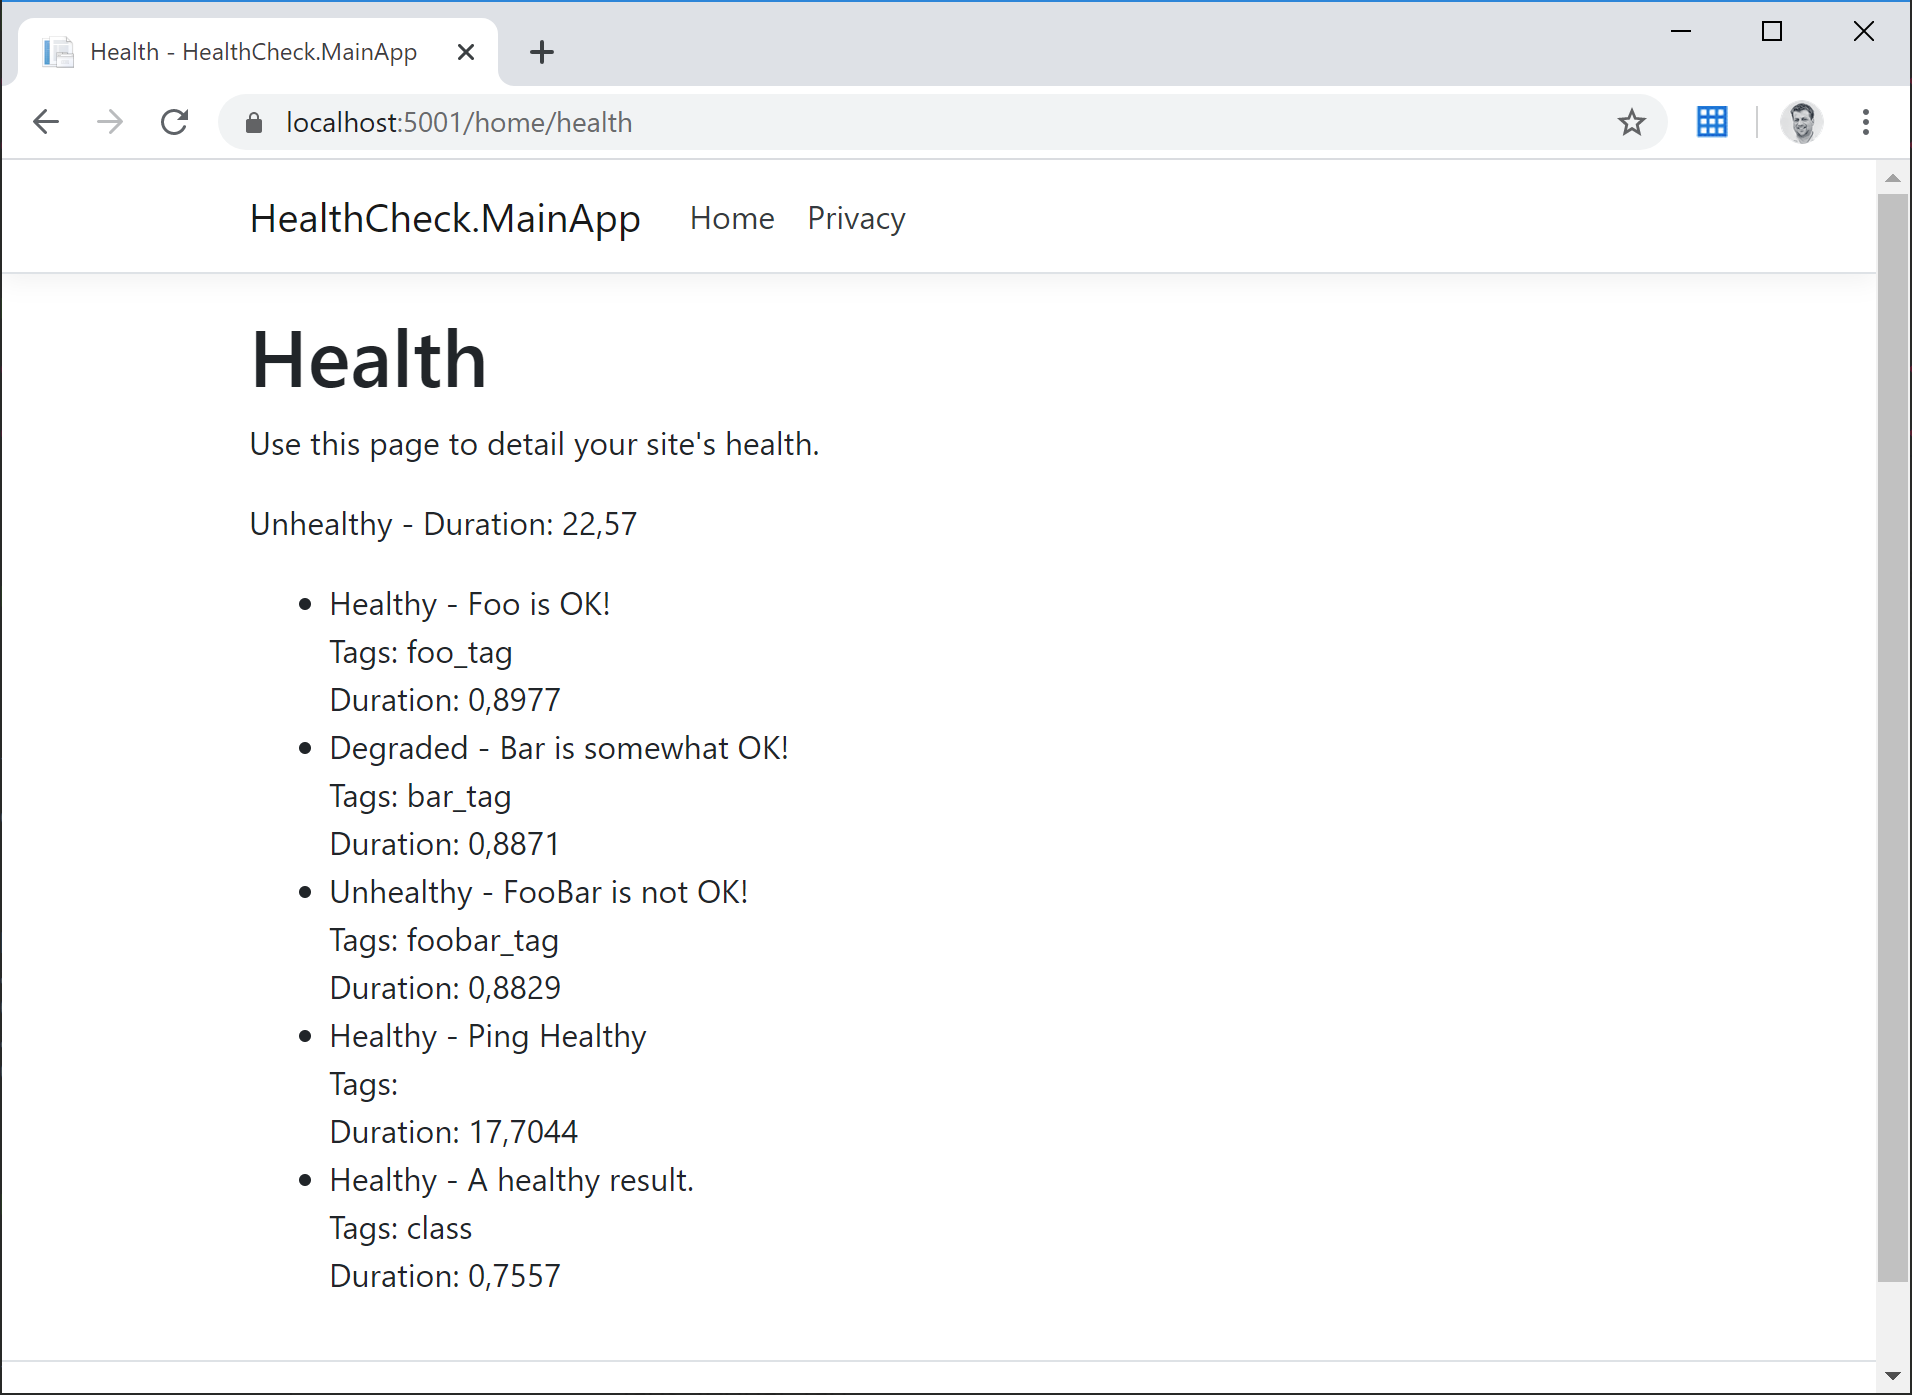
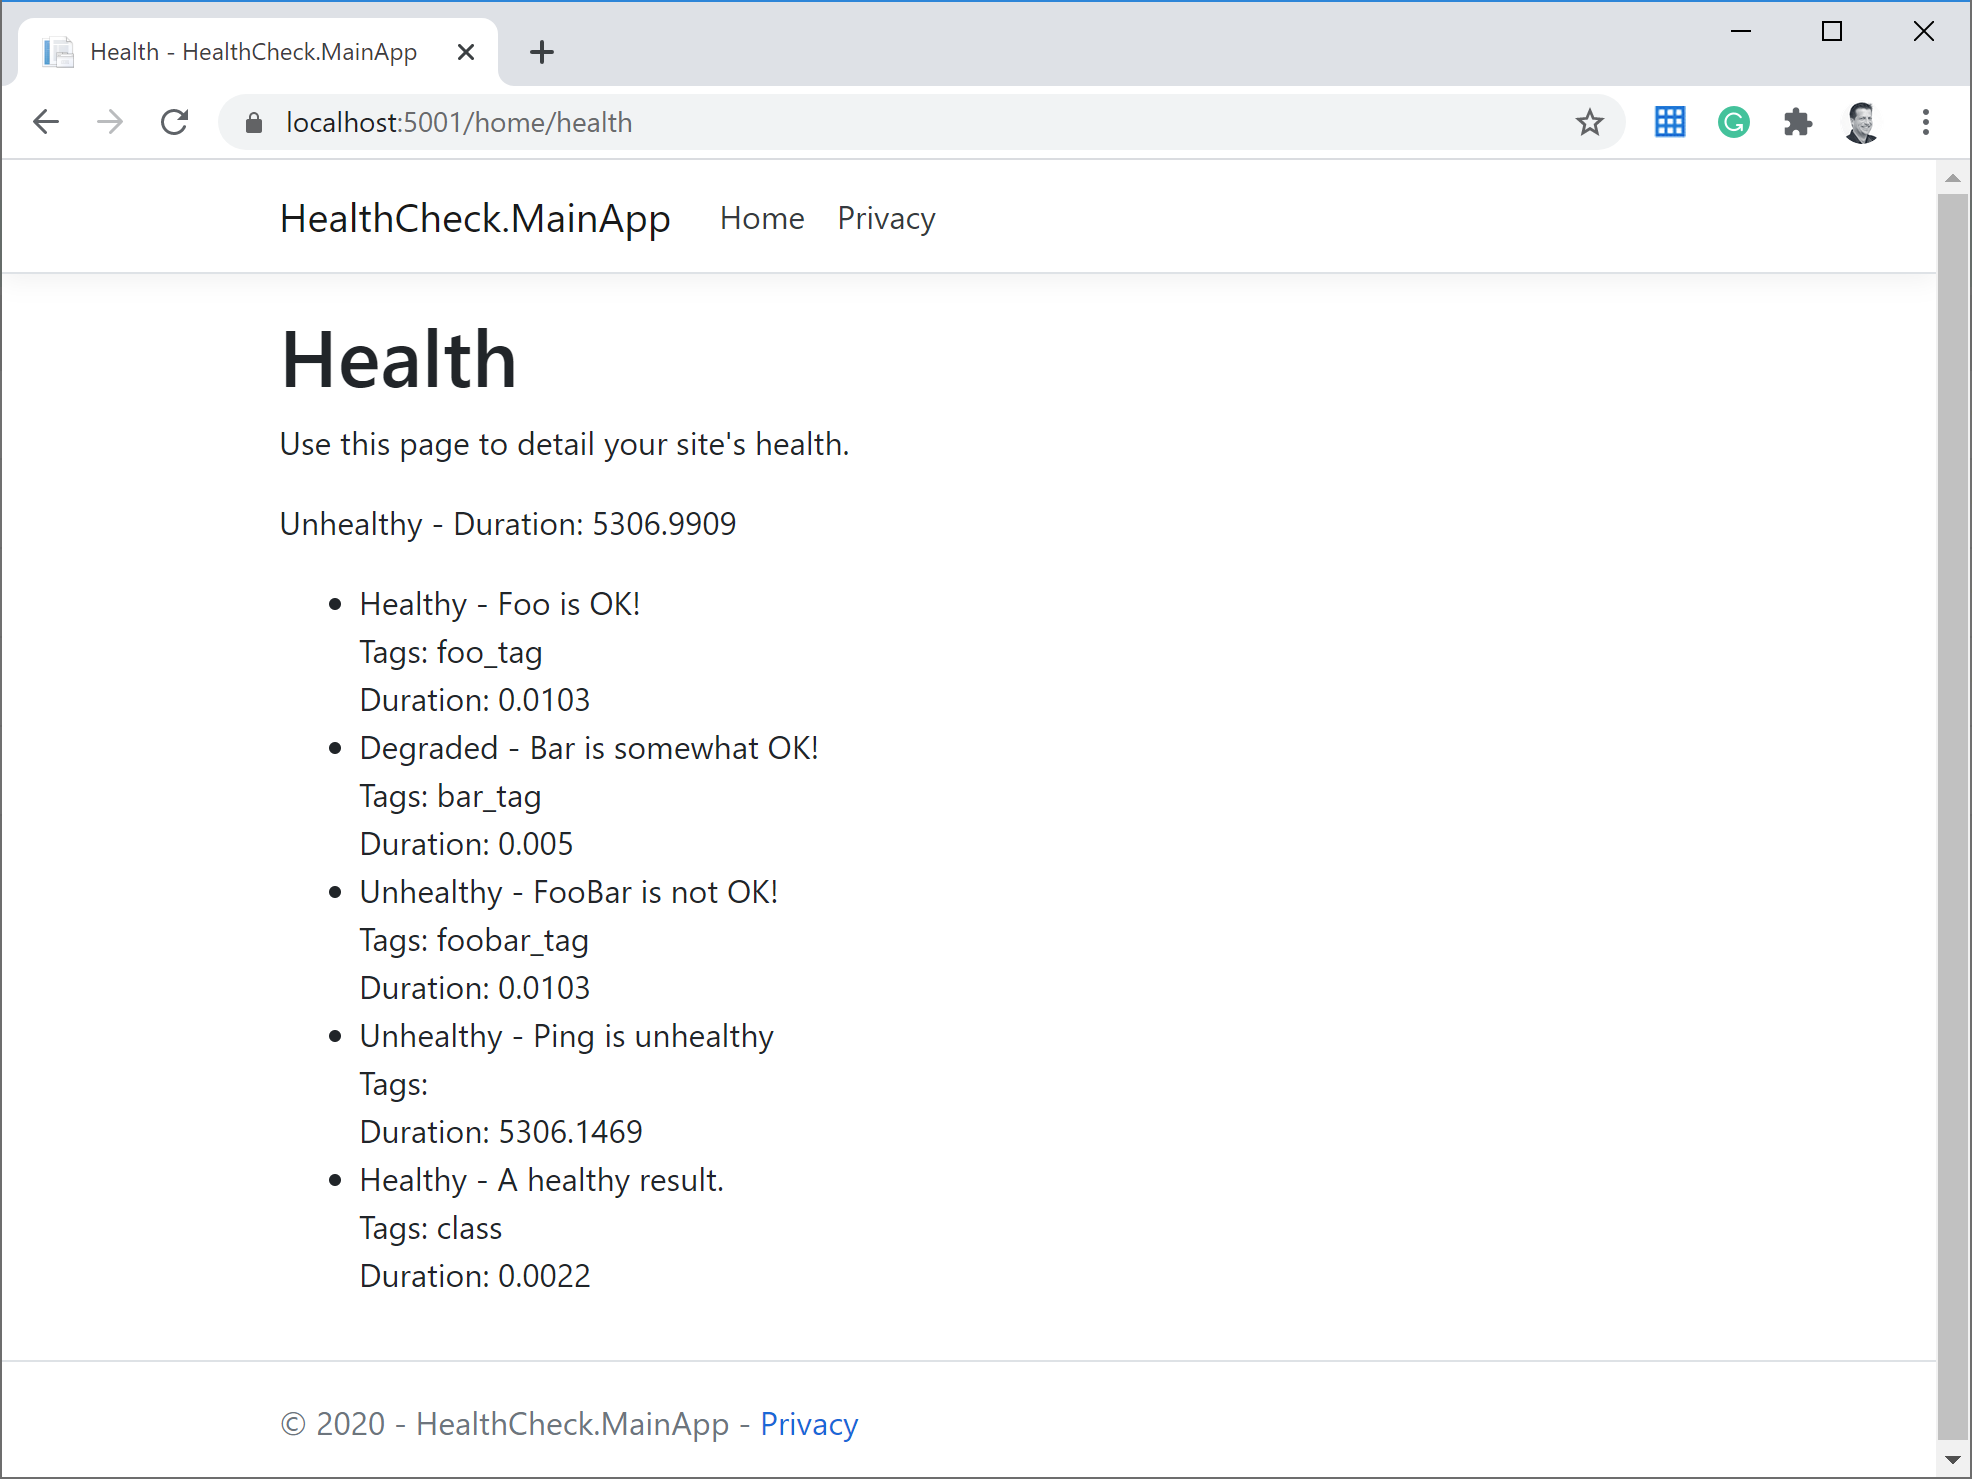
finish the post about the health checks

diff --git a/_source/_posts/2020-08-20-health-checks.md b/_source/_posts/2020-08-20-health-checks.md
@@ -12,7 +12,7 @@ tags:
 - Tag
 ---
 
-Since a while I planned to write about the ASP.NET Health Checks which are actually pretty cool. The development of the ASP.NET Core Health Checks started in fall 2016. At that time it was a architectural draft. In November 2016 during the Global MVP Summit in Redmond we got ask to hack some health checks based in the architectural draft. It was Damien Bowden and me who met Glen Condron and Andrew Nurse during the Hackathon on the last summit day to get into the ASP.NET Health Checks, to write the very first checks and to try the framework. 
+Since a while I planned to write about the ASP.NET Health Checks which are actually pretty cool. The development of the ASP.NET Core Health Checks started in fall 2016. At that time it was a architectural draft. In November 2016 during the Global MVP Summit in Redmond we got ask to hack some health checks based on the architectural draft. It was Damien Bowden and me who met Glen Condron and Andrew Nurse during the Hackathon on the last summit day to get into the ASP.NET Health Checks and to write the very first checks and to try the framework. 
 
 > Actually, I prepared a talk about the ASP.NET Health Checks. And I would be happy to do the presentation at your user group or your conference.
 
@@ -20,16 +20,16 @@ Since a while I planned to write about the ASP.NET Health Checks which are actua
 
 Imagine that you are creating an ASP.NET application that is pretty much dependent on some sub systems, like a database, a file system, an API, or something like that. This is a pretty common scenario. Almost every application is dependent on a database. If the connection to the database got lost for different reasons, the application will definitely break. This is how applications are developed since years. The database is the simplest scenario to imagine what the ASP.NET health checks are good for, but not the real reason why they are developed. So let's continue with the database scenario. 
 
-* What if, you where able the check whether the database is available or not before you connect to it. 
-* What if, you where able to tell your application to show a user friendly message about the database that is not available. 
-* What if, you could simply switch to a fallback database in case the actual one is not available? 
-* What if, you could tell a load balancer to switch to a different fallback environment, in case your application is unhealthy because of the missing database?
+* What if you where able the check whether the database is available or not before you actually connect to it. 
+* What if you where able to tell your application to show a user friendly message about the database that is not available. 
+* What if you could simply switch to a fallback database in case the actual one is not available? 
+* What if you could tell a load balancer to switch to a different fallback environment, in case your application is unhealthy because of the missing database?
 
 You can exactly do this with the ASP.NET Health Checks:
 
-Check the health and availability of your sub-systems, provide an endpoint that tells other systems about the health of the current application and consume health check endpoints of other systems.
+Check the health and availability of your sub-systems, provide an endpoint that tells other systems about the health of the current application, and consume health check endpoints of other systems.
 
-health checks are mainly made for microservice environments. where loosely coupled applications need to know the health state of the systems they are depending on. But they are also useful in more monolithic applications that are dependent on some kind of subsystems and infrastructure.
+Health checks are mainly made for microservice environments. where loosely coupled applications need to know the health state of the systems they are depending on. But they are also useful in more monolithic applications that are also dependent on some kind of subsystems and infrastructure.
 
 # How to enable health checks?
 
@@ -51,9 +51,9 @@ public void ConfigureServices(IServiceCollection services)
 }
 ~~~
 
-This also the place where we add the checks later on. But this should be good for now.
+This is also the place where we add the checks later on. But this should be good for now.
 
-To also provide an endpoint to tell other applications about the state of the current system you need to map a route to the health checks inside the Configure method of the Startup class:
+To also provide an endpoint to tell other applications about the state of the current system you need to map a route to the health checks inside the  Configure method of the Startup class:
 
 ~~~csharp
 app.UseEndpoints(endpoints =>
@@ -97,7 +97,7 @@ Those lines add three different health checks. They are named and the actual che
 
 Usually a health check result has at least one tag to group them by topic or whatever. The message should be meaningful to easily identify the actual problem.
 
-Those lines are not really useful, but show how the health check are working. If we run the app again and call the endpoint we would see a Unhealthy state, because it always shows the lowest state, which is Unhealthy. Feel free to play around with the different `HealthCheckResult`
+Those lines are not really useful, but they show how the health check are working. If we run the app again and call the endpoint, we would see a Unhealthy state, because it always shows the lowest state, which is Unhealthy. Feel free to play around with the different `HealthCheckResult`
 
 Now let's demonstrate an more useful health check. This one pings a needed resource in the internet and checks the availability:
 
@@ -112,25 +112,25 @@ services.AddHealthChecks()
                 var reply = ping.Send("asp.net-hacker.rocks");
                 if (reply.Status != IPStatus.Success)
                 {
-                    return HealthCheckResult.Unhealthy("Ping Unhealthy");
+                    return HealthCheckResult.Unhealthy("Ping is unhealthy");
                 }
 
                 if (reply.RoundtripTime > 100)
                 {
-                    return HealthCheckResult.Degraded("Ping Degraded");
+                    return HealthCheckResult.Degraded("Ping is degraded");
                 }
 
-                return HealthCheckResult.Healthy("Ping Healthy");
+                return HealthCheckResult.Healthy("Ping is healthy");
             }
         }
         catch
         {
-            return HealthCheckResult.Unhealthy();
+            return HealthCheckResult.Unhealthy("Ping is unhealthy");
         }
     });
 ~~~
 
-This won't work, because my blog runs on Azure and Microsoft doesn't allow pings there. Anyway, this demo shows you how to handle the specific results and how to return the right `HealthCheckResults` depending on the state of the the actual check.  
+This actually won't work, because my blog runs on Azure and Microsoft doesn't allow to ping the app services. Anyway, this demo shows you how to handle the specific results and how to return the right `HealthCheckResults` depending on the state of the the actual check.  
 
 But it doesn't really make sense to write those tests as lambda expressions and to mess with the `Startup` class. Good there is a way to also add class based health checks. 
 
@@ -166,7 +166,7 @@ services.AddHealthChecks()
     .AddCheck<ExampleHealthCheck>("class based", null, new[] { "class" });
 ~~~
 
-We also need to specify a name and at least one tag. With the second argument. I'm able to set a default failing state. But null is fine, in case I handle all exceptions inside the health check, I guess.
+We also need to specify a name and at least one tag. With the second argument I'm able to set a default failing state. But null is fine, in case I handle all exceptions inside the health check, I guess.
 
 
 
@@ -226,7 +226,7 @@ The `UIResponseWriter` of that project writes a JSON output  to the HTTP respons
     },
     "ping": {
       "data": {},
-      "description": "Ping Degraded",
+      "description": "Ping is degraded",
       "duration": "00:00:00.7165044",
       "status": "Degraded"
     },
@@ -242,11 +242,11 @@ The `UIResponseWriter` of that project writes a JSON output  to the HTTP respons
 
 In case the overall state is Unhealthy the endpoint sends the result with a 503 HTTP response status, otherwise it is a 200. This is really useful if you just want to handle the HTTP response status.
 
-The community project provides a lot more features. Also a nice UI to visualize the health state to humans. But I will show you this in a later section.
+The community project provides a lot more features. Also a nice UI to visualize the health state to humans. I'm going to show you this in a later section.
 
 ## Handle the states inside the application 
 
-In the most cases you don't want to just expose the state to depending consumer of your app. It might also be that you need to handle the different states in your application, by showing a message in case the application is not working properly, disabling parts of the application that are not working, switching to a fallback source, or whatever is needed to run the application in an degraded state.
+In the most cases you don't want to just expose the state to depending consumer of your app. It might also be the case that you need to handle the different states in your application, by showing a message in case the application is not working properly, disabling parts of the application that are not working, switching to a fallback source, or whatever is needed to run the application in an degraded state.
 
 To do things like this, you can use the `HealthCheckService` that is already registered to the IoC Container with the `AddHealthChecks()` method. You can inject the `HealthCheckService` using the `IHealthCheckService` interface wherever you want.
 
@@ -267,9 +267,9 @@ public class HomeController : Controller
 
     public async Task<IActionResult> Health()
     {
-        var health = await _healthCheckService.CheckHealthAsync();
+        var healthReport = await _healthCheckService.CheckHealthAsync();
         
-        return View(health);
+        return View(healthReport);
     }
 ~~~
 
@@ -327,9 +327,42 @@ And inside the method `Configure()` I need to map the health checks UI Middlewar
 endpoints.MapHealthChecksUI();
 ~~~
 
-This adds a new route to our application to call the UI
+This adds a new route to our application to call the UI: `/healthchecks-ui`
 
-/healthchecks-ui
+We also need to register our health API to the UI. This will be done using small setting to the appsetings.json:
 
+~~~ json
+{
+  ... ,
+  "HealthChecksUI": {
+    "HealthChecks": [
+      {
+        "Name": "HTTP-Api",
+        "Uri": "https://localhost:5001/health"
+      }
+    ],
+    "EvaluationTimeOnSeconds": 10,
+    "MinimumSecondsBetweenFailureNotifications": 60
+  }
+}
 
+~~~
 
+This way you are able to register as many health endpoints to the UI as you like. Think about a separate application that only shows the health states of all your microservices. This would be the way to go.
+
+Let's call the UI using this route `/healthchecks-ui`
+
+![](../img/healthchecks/healthchecksui.png)
+
+(Wow... Actually, the ping seemed to work, when I did this screenshot. )
+
+This is awesome. This is a really great user interface to display the health of all your services. 
+
+About the Webhooks and customization of the UI, you should read the great docs in the repository.
+
+## Conclusion
+
+The health checks are definitely a thing you should look into. No matter what kind of web application you are writing, it can help you to create more stable and more responsive applications. Applications that know about their health can handle degraded of unhealthy states in a way that won't break the whole application. This is very useful, at least from my perspective ;-) 
+
+To play around with the demo application used for this post visit the repository on GitHub: 
+https://github.com/JuergenGutsch/healthchecks-demo
